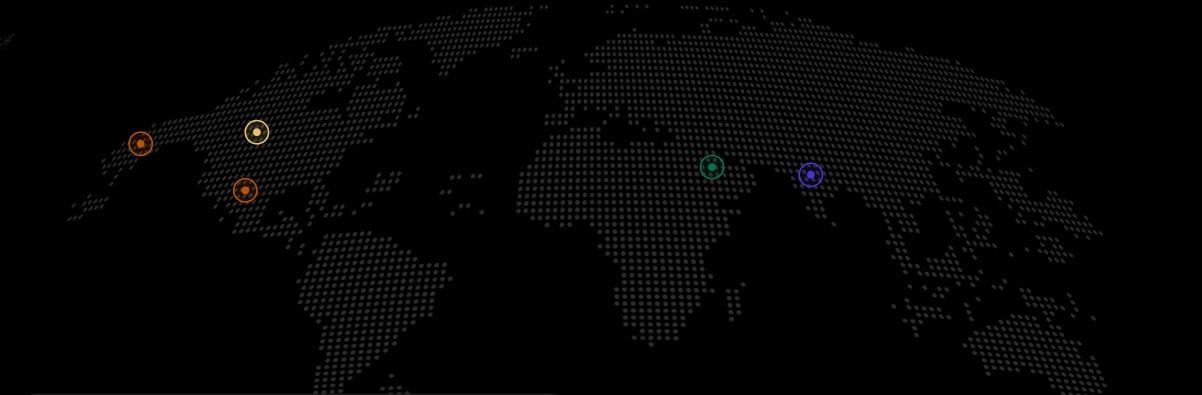
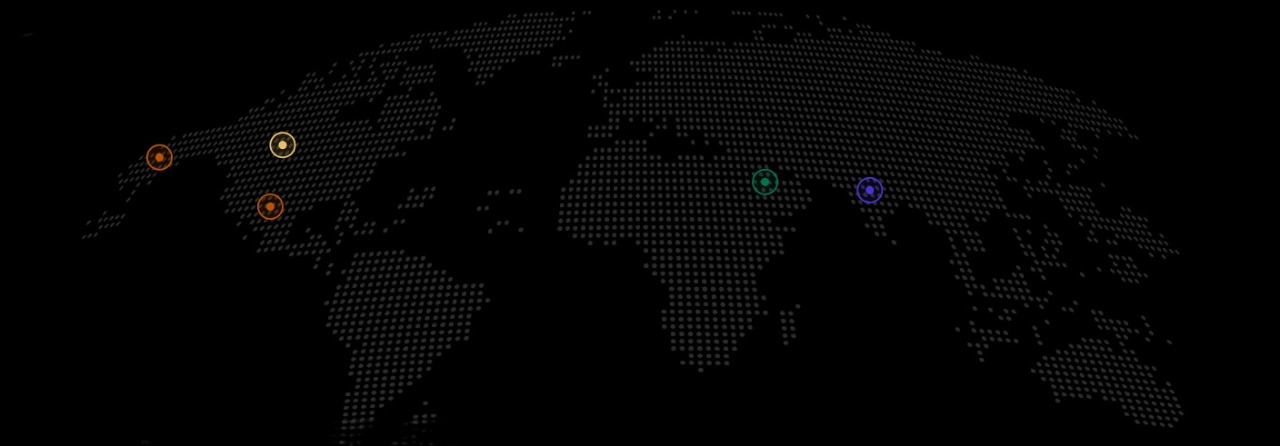
new

diff --git a/src/components/Dashboard.js b/src/components/Dashboard.js
@@ -62,7 +62,7 @@ const Dashboard = ({ isMobile }) => {
                       <div className="relative inline-block">
                         <div 
                           onClick={() => setDropdownOpen(dropdownOpen === 'visitors' ? null : 'visitors')}
-                          className="appearance-none w-[108px] h-[24px] bg-black border border-[#1D1D1D] text-white py-0.5 px-3 pl-4 pr-8 rounded-full text-[12px] font-semibold tracking-[-0.04em] leading-[100%] flex items-center justify-between cursor-pointer"
+                          className="appearance-none w-[108px] h-[24px] bg-black border border-[#1D1D1D] text-white py-0.5 px-3 pl-4 pr-8 rounded-full text-[12px] font-semibold tracking-[-0.04em] leading-[100%] flex items-center cursor-pointer"
                         >
                           <span>Visitors</span>
                           <svg className="fill-current h-4 w-4 absolute right-3" xmlns="http://www.w3.org/2000/svg" viewBox="0 0 20 20">
@@ -84,7 +84,7 @@ const Dashboard = ({ isMobile }) => {
                       <div className="relative inline-block">
                         <div 
                           onClick={() => setDropdownOpen(dropdownOpen === 'timeframe' ? null : 'timeframe')}
-                          className="appearance-none w-[108px] h-[24px] bg-black border border-[#1D1D1D] text-white py-0.5 px-3 pl-4 pr-8 rounded-full text-[12px] font-semibold tracking-[-0.04em] leading-[100%] flex items-center justify-between cursor-pointer whitespace-nowrap"
+                          className="appearance-none w-[96px] h-[24px] bg-black border border-[#1D1D1D] text-white py-0.5 px-3 pl-4 pr-8 rounded-full text-[12px] font-semibold tracking-[-0.04em] leading-[100%] flex items-center cursor-pointer whitespace-nowrap"
                         >
                           <span>Last 30 days</span>
                           <svg className="fill-current h-4 w-4 absolute right-3" xmlns="http://www.w3.org/2000/svg" viewBox="0 0 20 20">
@@ -92,7 +92,7 @@ const Dashboard = ({ isMobile }) => {
                           </svg>
                         </div>
                         {dropdownOpen === 'timeframe' && (
-                          <div className="absolute left-0 mt-1 w-[108px] bg-black border border-[#1D1D1D] rounded-md shadow-lg z-10">
+                          <div className="absolute left-0 mt-1 w-[96px] bg-black border border-[#1D1D1D] rounded-md shadow-lg z-10">
                             <div className="py-0">
                               <div className="block px-4 py-1.5 text-[#555555] text-[12px] font-semibold">Today</div>
                               <div className="block px-4 py-1.5 text-[#555555] text-[12px] font-semibold">Yesterday</div>
@@ -105,8 +105,28 @@ const Dashboard = ({ isMobile }) => {
                         )}
                       </div>
                       
+                      <div className="relative inline-block">
+                        <div 
+                          onClick={() => setDropdownOpen(dropdownOpen === 'connections' ? null : 'connections')}
+                          className="appearance-none w-[108px] h-[24px] bg-black border border-[#1D1D1D] text-white py-0.5 px-3 pl-4 pr-8 rounded-full text-[12px] font-semibold tracking-[-0.04em] leading-[100%] flex items-center cursor-pointer"
+                        >
+                          <span>Connections</span>
+                          <svg className="fill-current h-4 w-4 absolute right-3" xmlns="http://www.w3.org/2000/svg" viewBox="0 0 20 20">
+                            <path d="M9.293 12.95l.707.707L15.657 8l-1.414-1.414L10 10.828 5.757 6.586 4.343 8z"/>
+                          </svg>
+                        </div>
+                        {dropdownOpen === 'connections' && (
+                          <div className="absolute left-0 mt-1 w-[108px] bg-black border border-[#1D1D1D] rounded-md shadow-lg z-10">
+                            <div className="py-0">
+                              <div className="block px-4 py-1.5 text-[#555555] text-[12px] font-semibold">Visitors</div>
+                              <div className="block px-4 py-1.5 text-white bg-[#0A0A0A] text-[12px] font-semibold">Connections</div>
+                            </div>
+                          </div>
+                        )}
+                      </div>
+                      
                       {/* Add dropdown - updated to solid border */}
-                      <div className="relative">
+                      <div className="relative ml-3">
                         <button 
                           onClick={() => setAddOpen(!addOpen)} 
                           className="flex items-center relative bg-black border border-[#1D1D1D] text-white py-1 px-3 pl-4 pr-8 rounded-full text-xs font-semibold tracking-[-0.04em] leading-[100%] h-[24px] w-[78px]"
@@ -132,15 +152,15 @@ const Dashboard = ({ isMobile }) => {
                   {/* Stats */}
                   <div className="flex flex-row gap-10 px-5 mt-3 mb-4">
                     <div>
-                      <div className="text-[32px] font-extrabold text-white tracking-[-0.04em] leading-[100%]">13.49K</div>
-                      <div className="text-green-500 text-[12px] font-semibold tracking-[-0.04em] leading-[100%] mt-1">+469% (897)</div>
+                      <div className="text-[32px] font-extrabold text-white tracking-[-0.04em] leading-[100%] font-manrope">13.49K</div>
+                      <div className="text-[#01754F] text-[12px] font-semibold tracking-[-0.04em] leading-[100%] font-manrope mt-1">+469% <span className="text-[#555555]">(897)</span></div>
                     </div>
                     <div>
                       <div className="flex items-center mb-1">
-                        <div className="w-[6px] h-[6px] rounded-full bg-purple-500 mr-2"></div>
+                        <div className="w-[8px] h-[8px] rounded-full bg-[#C36DEE] mr-2"></div>
                         <div className="text-[12px] text-white font-medium">3.49K</div>
                       </div>
-                      <div className="text-green-500 text-[12px] font-semibold tracking-[-0.04em] leading-[100%]">+180% (497)</div>
+                      <div className="text-[#01754F] text-[12px] font-semibold tracking-[-0.04em] leading-[100%] font-manrope">+180% <span className="text-[#555555]">(497)</span></div>
                     </div>
                   </div>
                   

diff --git a/src/components/DemographicsCard.js b/src/components/DemographicsCard.js
@@ -37,14 +37,14 @@ const DemographicsCard = ({ isMobile }) => {
       {/* Main content layout */}
       <div className="w-full relative flex">
         {/* World Map - full size and positioned correctly */}
-        <div className="w-[65%] h-[230px] relative">
+        <div className="w-[70%] h-[250px] relative">
           <img src="/images/worldmap.png" alt="World Map" className="w-full h-full object-contain opacity-75 mt-[-10px]" />
         </div>
 
         {/* Country stats on right side - exact positioning and styling */}
-        <div className="w-[35%] pl-6 mt-0">
+        <div className="w-[30%] pl-2 mt-[-20px]">
           {countries.map((country, index) => (
-            <div key={country.id} className="mb-5">
+            <div key={country.id} className="mb-4">
               <div className="flex items-center">
                 {/* Flag with exact dimensions */}
                 <div className="w-[40px] h-[28px] rounded-[2px] overflow-hidden mr-3">
@@ -118,10 +118,10 @@ const DemographicsCard = ({ isMobile }) => {
           ))}
           
           {/* Horizontal line with exact specs */}
-          <div className="mt-1 w-[228px] h-[1px] bg-[#1D1D1D]"></div>
+          <div className="mt-2 w-[228px] h-[1px] bg-[#1D1D1D]"></div>
           
           {/* View all countries link with exact specs */}
-          <div className="flex justify-end mt-2">
+          <div className="flex justify-end mt-3">
             <button className="flex items-center text-white text-[10px] font-semibold font-manrope leading-[100%] hover:text-gray-300 transition-colors">
               View all countries
               <svg className="ml-1 w-3 h-3" fill="none" stroke="currentColor" viewBox="0 0 24 24" xmlns="http://www.w3.org/2000/svg">

diff --git a/src/components/InsightsCard.js b/src/components/InsightsCard.js
@@ -22,11 +22,11 @@ const InsightsCard = ({ isMobile }) => {
     <div className="p-4">
       <div className="px-2">
         {items.map((item, index) => (
-          <div key={index} className={`${index !== 0 ? 'mt-10' : 'mt-2'}`}>
+          <div key={index} className={`${index !== 0 ? 'mt-8' : 'mt-0'}`}>
             <h4 className="text-[16px] text-white font-semibold font-manrope tracking-[-0.04em] leading-[100%]">{item.title}</h4>
-            <div className="flex items-start mt-1">
+            <div className="flex items-start mt-2">
               <div className="text-[32px] font-extrabold text-white tracking-[-0.04em] leading-[100%] font-manrope">{item.value}</div>
-              <div className="ml-2 flex flex-col mt-1">
+              <div className="ml-2 flex flex-col mt-2">
                 <span className="text-[#01754F] text-[12px] font-semibold tracking-[-0.04em] leading-[100%] font-manrope">
                   {item.change}
                 </span>
@@ -38,7 +38,7 @@ const InsightsCard = ({ isMobile }) => {
           </div>
         ))}
         
-        <div className="mt-6 pt-3 border-t border-[#1D1D1D] flex justify-end w-full">
+        <div className="mt-7 pt-4 border-t border-[#1D1D1D] flex justify-end w-full">
           <button className="flex items-center text-[10px] text-white font-semibold font-manrope tracking-[0%] leading-[100%] hover:text-gray-300 transition-colors">
             View detailed insights
             <svg className="ml-1 w-3 h-3" fill="none" stroke="currentColor" viewBox="0 0 24 24" xmlns="http://www.w3.org/2000/svg">
